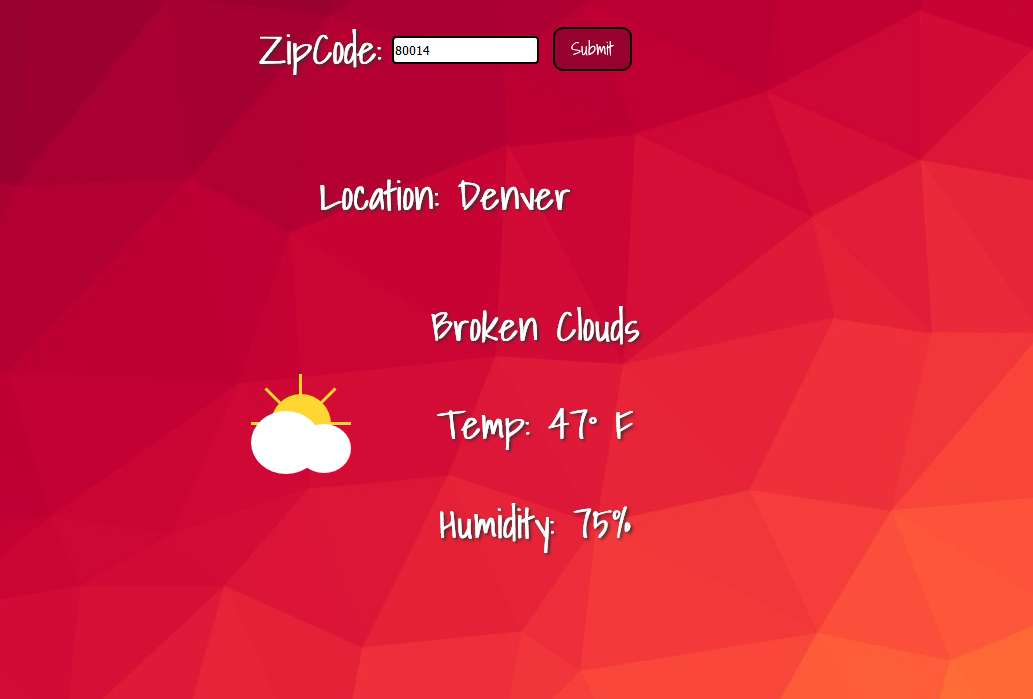
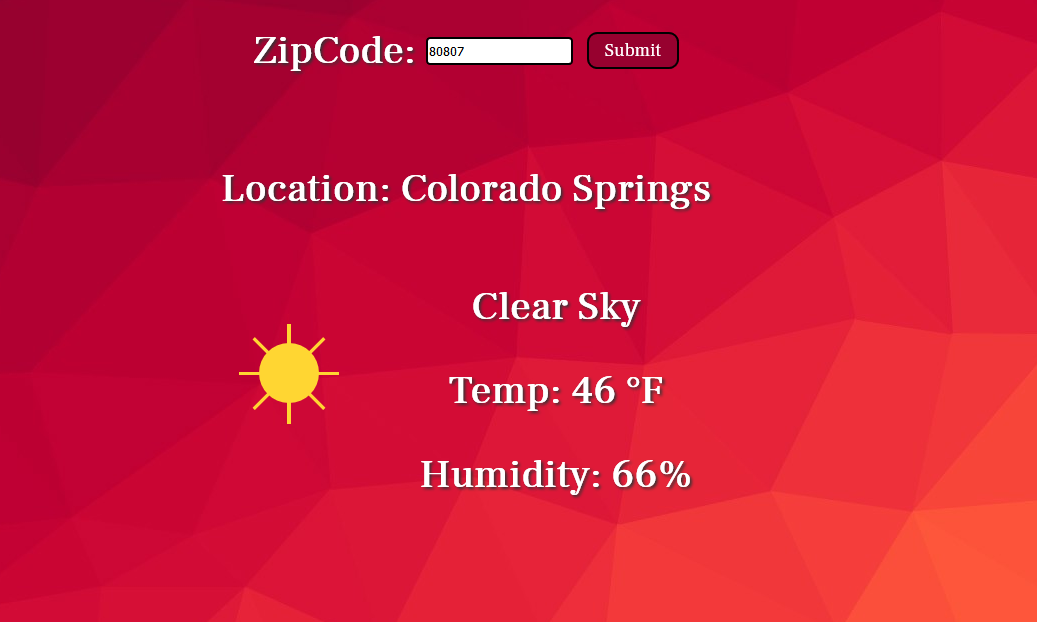
Updated font and screenshot

diff --git a/style.css b/style.css
@@ -1,4 +1,4 @@
-@import url(https://fonts.googleapis.com/css?family=Shadows+Into+Light);
+@import url(https://fonts.googleapis.com/css?family=Frank+Ruhl+Libre);
 body {
 	background-image: url("background.jpg");
 }
@@ -11,7 +11,7 @@ body {
 }
 
 .script {
-	font-family: "Shadows Into Light";
+	font-family: "Frank Ruhl Libre";
 	color: #fff;
 	text-align: center;
 	font-size: 40px;
@@ -54,7 +54,7 @@ div.content button {
 }
 
 div.weather h2 {
-	font-family: "Shadows Into Light";
+	font-family: "Frank Ruhl Libre";
 	display: flex;
 	justify-content: center;
 	color: white;
